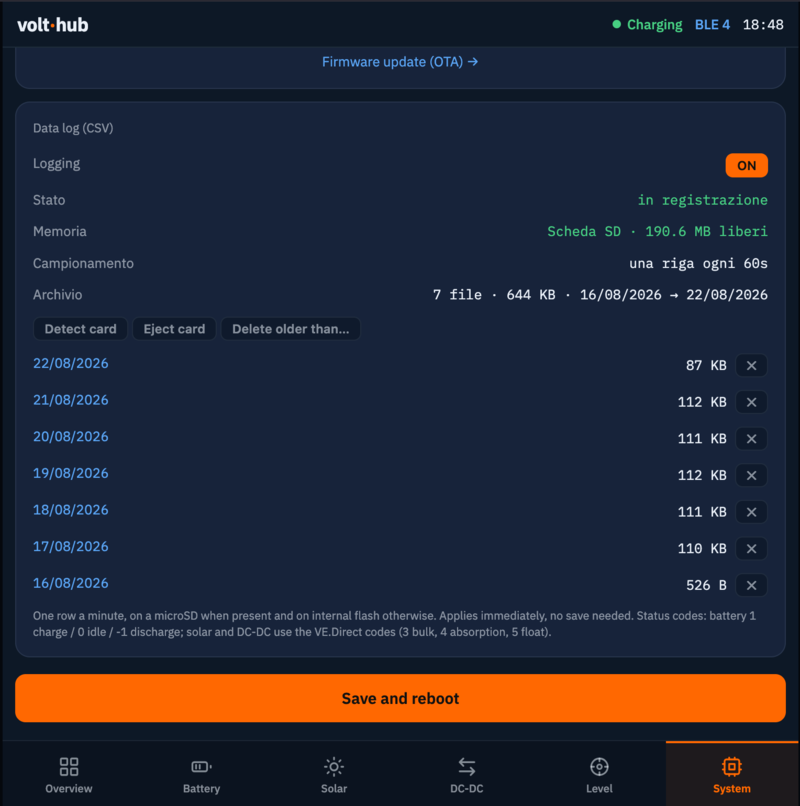
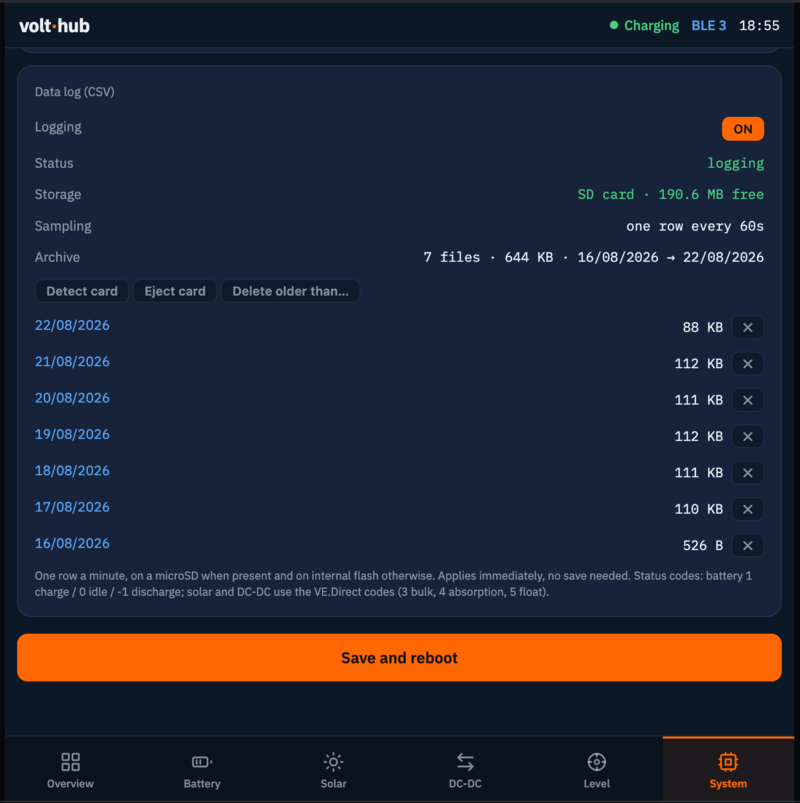
v0.98 - docs: log screenshot retaken on 0.97 (local)
web-system-log.png replaced with a capture from a device running 0.97, where
the card is fully in English. The previous one still showed the mixed-language
rows that 0.97 fixed.

diff --git a/src/Version.h b/src/Version.h
@@ -3,4 +3,4 @@
 // Change-based versioning: bump on EVERY commit and add a matching entry to
 // CHANGELOG.md (repo root). Scheme "0.N" (N = change number) until the 1.0 release.
 // Shown in the System screen (device) and System tab (web, via /api/data "sys.fw").
-#define FW_VERSION "0.97"
+#define FW_VERSION "0.98"

diff --git a/CHANGELOG.md b/CHANGELOG.md
@@ -10,6 +10,10 @@ of the web dashboard.
 
 ---
 
+## 0.98 — docs: log screenshot retaken on 0.97 (LOCAL)
+- `web-system-log.png` replaced with a capture from a device running 0.97, where the card is fully
+  in English — the previous one still showed the mixed-language rows that 0.97 fixed.
+
 ## 0.97 — web: the log card kept the language it was rendered in (LOCAL)
 - Visible in a screenshot taken with the UI in English: the *Data log* card still read *Stato ·
   Memoria · Campionamento · Archivio*. `applyLang()` re-translates `[data-i18n]` nodes, but the log
